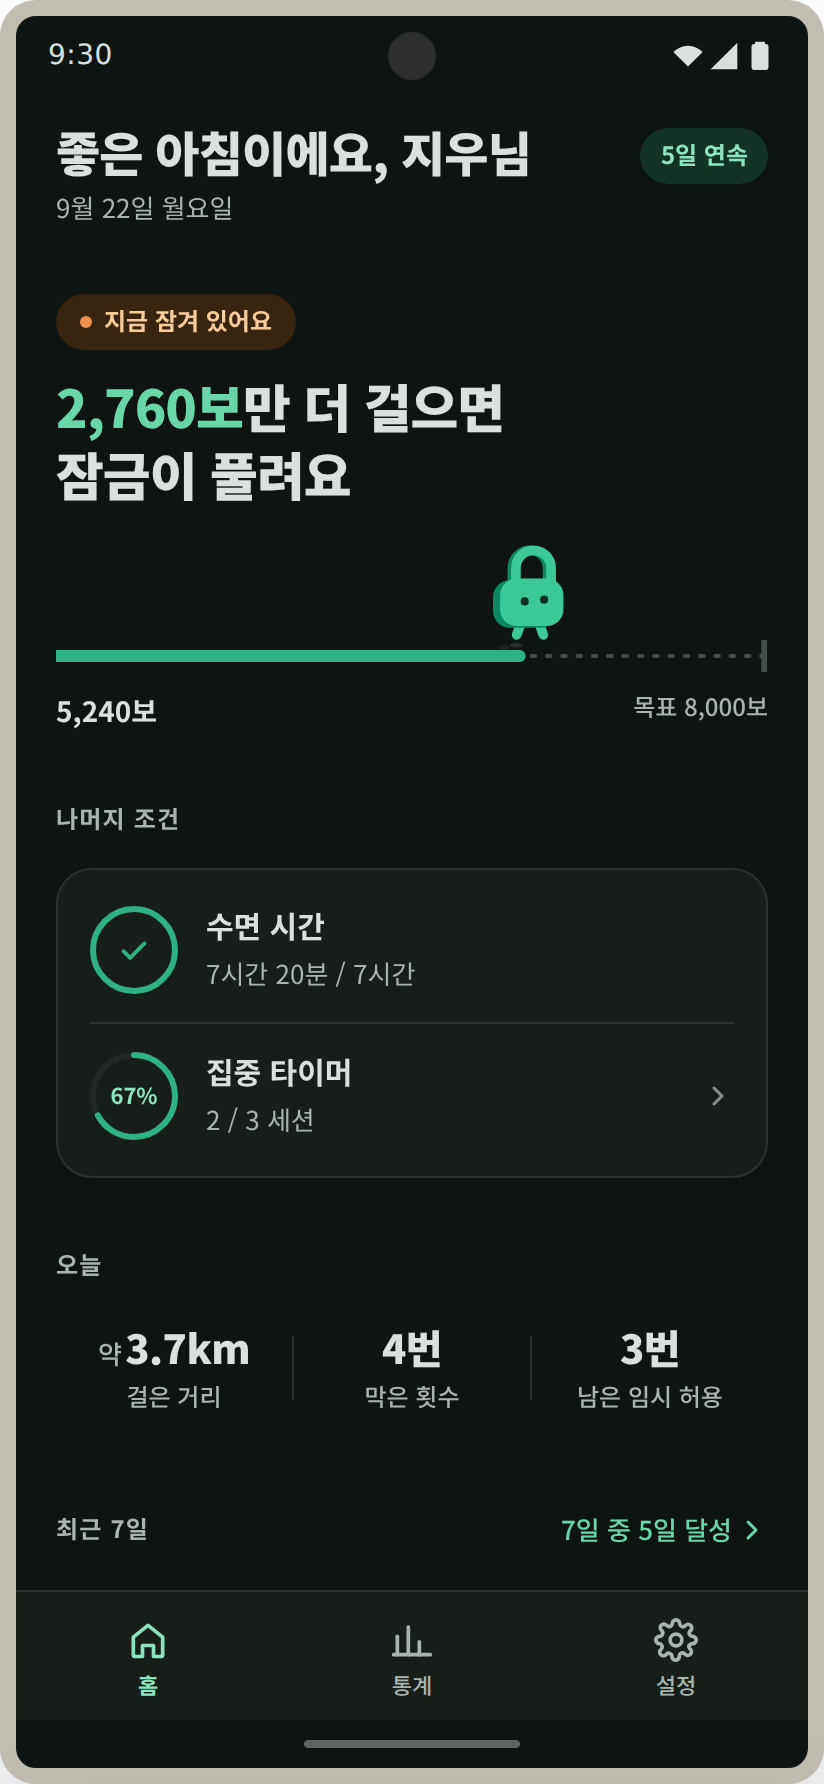
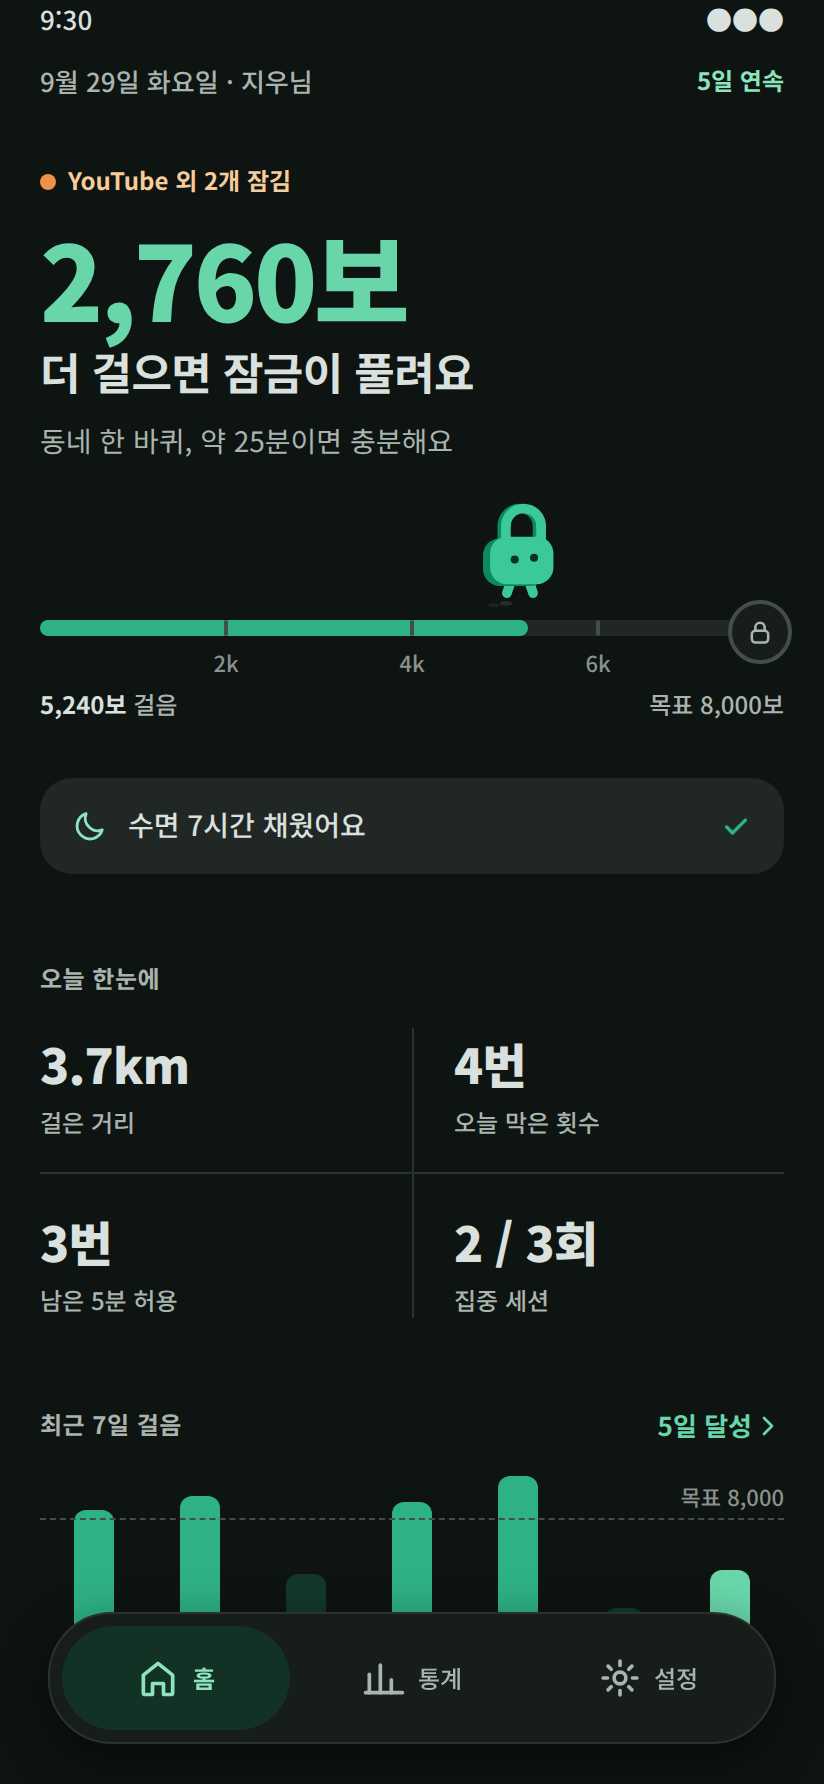
문서·사진: 새 홈(큰 숫자 + 걷는 길)과 떠 있는 탭
Claude-Session: https://claude.ai/code/session_01TfDVSB28YoT3k36WsBEoLF

diff --git a/README.md b/README.md
@@ -112,21 +112,24 @@
 
 <p align="center">
   <img src="docs/screens/14-home-full.png" width="36%" alt="홈 — 스크롤 전체" />
+  <img src="docs/screens/11-home-dark.png" width="36%" alt="홈 — 다크 모드" />
 </p>
 
-걸음 조건 하나만 켠 기본 상태에서도 비어 보이지 않도록, 꾸밈이 아니라 **이 앱만 알려 줄 수
-있는 숫자**로 채웠습니다. 위에서 아래로 *지금 → 오늘 → 최근 → 대상* 순서입니다.
+**할 일의 양을 가장 크게** 말합니다. 화면을 연 사람이 가장 알고 싶은 건 "얼마나 더"라서,
+문장 속에 묻혀 있던 숫자를 떼어 52sp로 올렸습니다. 위에서 아래로 *지금 → 길 → 오늘 → 최근 → 대상*.
 
 | 구역 | 보여 주는 것 |
 | --- | --- |
-| 지금 | 상태 알약(잠김은 앰버, 열림 · 허용 · 집중은 브랜드)과 한 문장 "**2,760보**만 더 걸으면 잠금이 풀려요". 할 일의 숫자만 브랜드 색으로 띄우고, 아래 트랙에서 스텝이가 걸어갑니다 |
-| 나머지 조건 | 조건을 둘 이상 켰을 때만. 잠금을 푸는 데 직접 관계된 것이라 바로 아래에 둡니다 |
-| 오늘 | 걸은 거리(걸음 폭 0.7m로 어림해 "약"), 막은 횟수, 남은 임시 허용. 트랙이 이미 걸음을 보여 주므로 걸음을 되풀이하지 않습니다 |
-| 최근 7일 | 요일마다 링. 채운 날은 꽉 찬 원에 체크, 못 채운 날은 얼마나 갔는지 — "못 했다"보다 "여기까지 갔다". 누르면 통계로 |
-| 차단 중인 앱 | 앱마다 "오늘 **3번** 막았어요". 오늘 많이 막은 앱이 위로 올라옵니다 |
+| 지금 | "YouTube 외 2개 잠김"(점 하나와 글자) → 큰 숫자 **2,760보** → "더 걸으면 잠금이 풀려요" → "동네 한 바퀴, 약 25분이면 충분해요"(분당 약 100보로 어림) |
+| 길 | 굵은 길 위를 스텝이가 걷고, 끝에는 자물쇠. 걸음 조건이면 목표를 4등분한 이정표(2k · 4k · 6k) |
+| 나머지 조건 | 옅은 띠 한 줄씩 — "수면 7시간 채웠어요 ✓", 못 채웠으면 "5시간 / 7시간". 집중 타이머 띠는 누르면 타이머로 |
+| 오늘 한눈에 | 2×2 숫자 — 걸은 거리 · 오늘 막은 횟수 · 남은 5분 허용 · 집중 세션(집중 조건이 꺼져 있으면 최근 7일 달성) |
+| 최근 7일 걸음 | 걸음 막대와 목표 점선. 채운 날은 진한 초록, 못 채운 날은 옅은 초록, 오늘은 가장 진하게. 누르면 통계로 |
+| 오늘 막은 앱 | 앱마다 막은 횟수만큼 차는 앰버 막대와 횟수. 많이 막은 앱이 위로 |
 
-카드는 "나머지 조건" 하나뿐입니다. 나머지는 여백과 섹션 제목으로만 나누고, 모양은 원
-(링 · 알약 · 아이콘) 위주로 써서 네모난 상자가 쌓여 보이지 않게 했습니다.
+카드를 쌓지 않습니다. 구역은 44dp 여백과 섹션 제목으로 나누고, 면을 까는 건 "나머지 조건" 띠뿐입니다.
+하단 탭은 화면에서 띄운 알약(좌우 24dp, 아래 12dp)이고 세 탭 모두 이름이 보입니다. 내용은 탭
+뒤로 흐르고, 스크롤 끝에는 탭에 가리지 않게 여백을 둡니다.
 
 막은 횟수는 감시 서비스가 잠금 화면을 띄울 때 앱별로 기록합니다. 기기에만 두고 날짜가 바뀌면
 새로 셉니다. 같은 앱에 머무는 동안은 잠금을 다시 띄우지 않으므로 "그 앱을 열려고 한 횟수"에
@@ -355,7 +358,7 @@ Noto Sans KR 400/500/700/900. 화면에서 쓰는 스타일을 [`Type.kt`](app/s
 | `UnderlineTextField` | 밑줄형 입력. 포커스 시 밑줄이 브랜드 그린, 비밀번호는 표시 토글 내장. |
 | `SocialLoginButton` | 구글 · 카카오 · 애플 44dp 원형 버튼. |
 | `SlSwitch` · `CheckboxMark` | 시안 규격(52×32 트랙, 24dp 체크박스)에 맞춘 선택 컨트롤. |
-| `BottomNavBar` | 홈 · 통계 · 설정 탭. 라벨 표시를 끌 수 있습니다. |
+| `BottomNavBar` | 홈 · 통계 · 설정 탭. 화면에서 띄운 알약, 세 탭 모두 이름 표시, 지금 탭은 연한 초록 알약. |
 | `WeeklyBarChart` | 일별 막대 하나에 값 하나. 영점에서 시작하고 목표는 점선으로만 표시합니다. |
 | `StepTrack` | 진행률을 링이 아니라 캐릭터의 **위치**로 보여 줍니다. 지나온 길은 실선, 남은 길은 점선. |
 | `SlSegmented` | 2~4칸 전환 막대. **보는 범위만** 바꿉니다(통계 기간, 완화 대기) — 화면 이동은 하단 탭바. |
